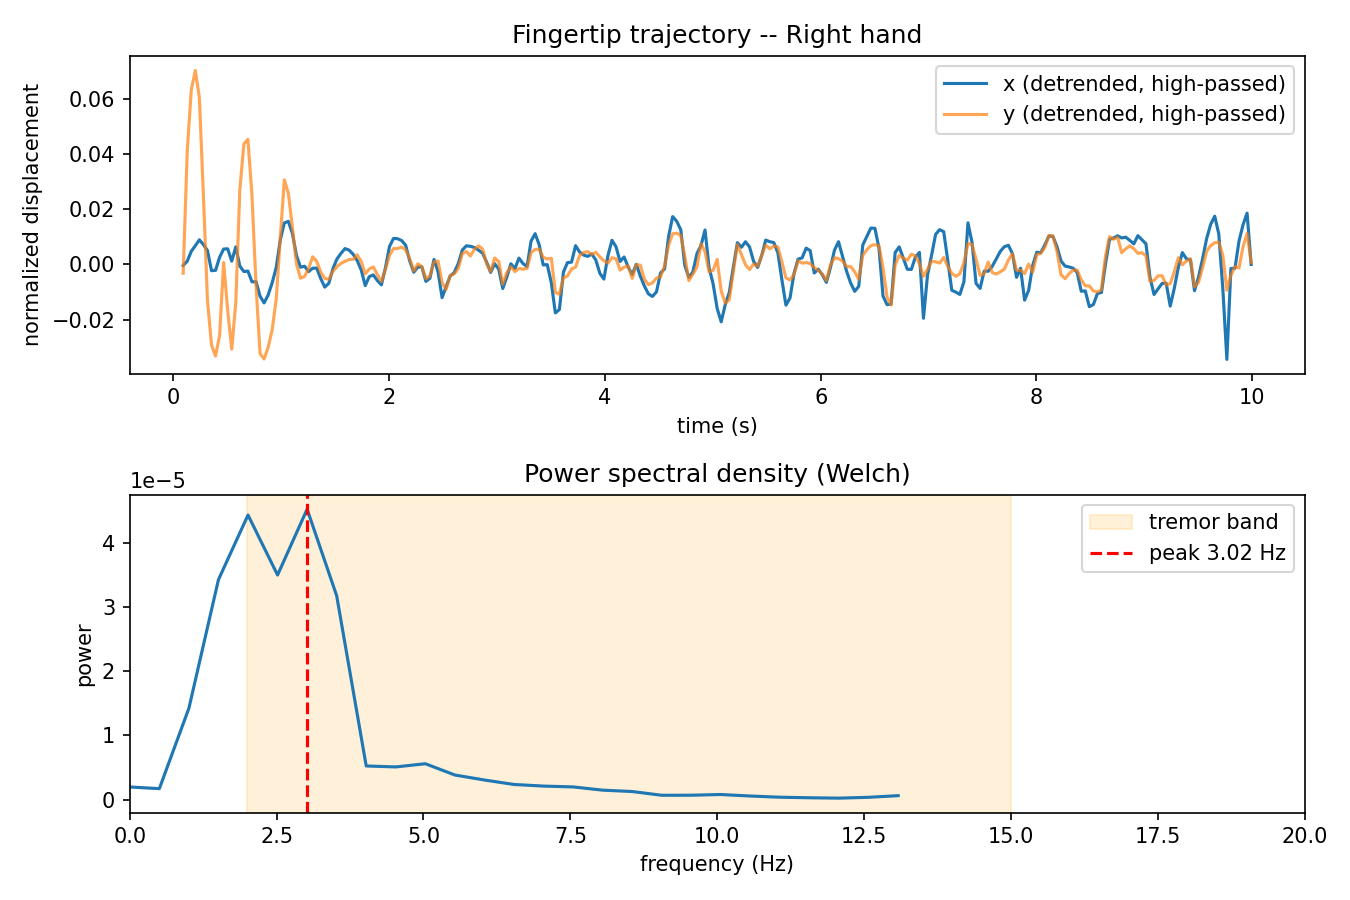
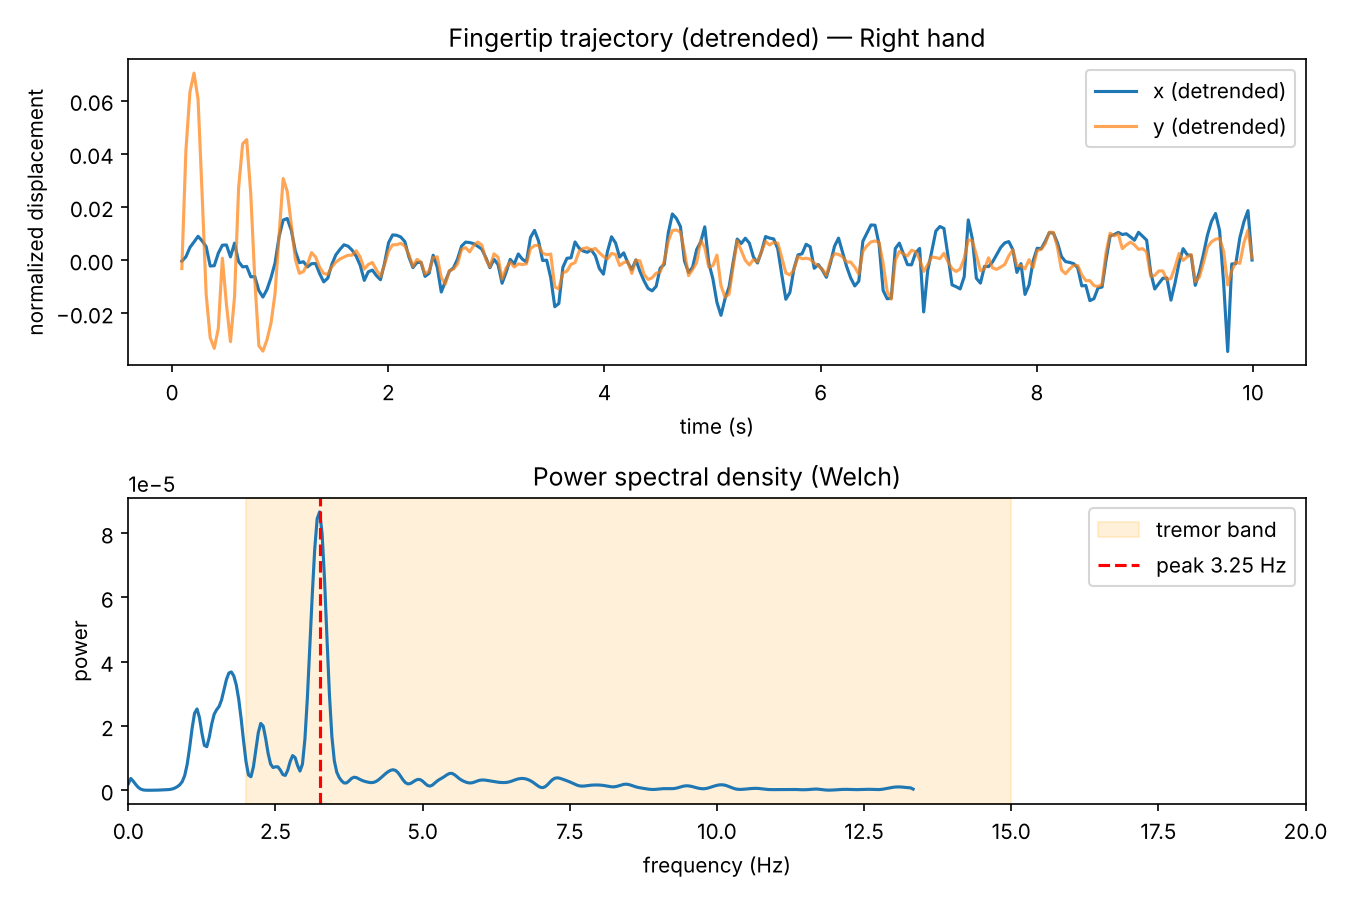
Fix tremor peak detection; correct Nyquist and ROM claims

diff --git a/python/tremor_math.py b/python/tremor_math.py
@@ -13,20 +13,19 @@ def resample_uniform(t, x, y):
     return t_uniform, x_u, y_u, fs
 
 
-def dominant_freq(x_u, y_u, fs, band=(2.0, 15.0), min_prominence_ratio=0.15,
-                   highpass_hz=1.0):
-    """Find a genuine spectral peak inside `band`, not just the highest point in
-    that window. A hand that isn't oscillating produces a power spectrum that
-    monotonically decays from 0 Hz -- naively taking argmax() over a band window
-    would then just report the band's left edge every time, even for a
-    perfectly still hand. scipy.signal.find_peaks requires an actual local
-    maximum (lower power on both sides) with prominence above a fraction of the
-    spectrum's peak power, so flat/monotonic spectra correctly report "no peak."
+def dominant_freq(x_u, y_u, fs, band=(2.0, 15.0), min_prominence_ratio=0.25,
+                  highpass_hz=1.0, window_sec=6.0):
+    """Find a genuine spectral peak inside `band`.
 
-    Slow arm/wrist drift during a "shake" also tends to dominate the spectrum
-    below ~1 Hz and can swamp a real, smaller tremor-band peak -- a Butterworth
-    high-pass filter removes that before Welch's method, so the oscillatory
-    component (not overall hand travel) is what gets compared against the band.
+    Two rules keep this honest:
+    - A long Welch window (`window_sec`). A 2 s window gives 0.5 Hz resolution,
+      too coarse to tell 2.0 Hz from 2.4 Hz.
+    - Prominence is relative to the strongest power *inside the band*. Measuring
+      it against the whole spectrum lets sub-band arm motion (1-2 Hz) hide a
+      real in-band peak. A still hand has no such peak and reports "no peak".
+
+    Peaks are searched on the whole spectrum and then filtered to the band, so
+    a peak sitting exactly on the band edge is not lost.
     """
     x_d = signal.detrend(x_u)
     y_d = signal.detrend(y_u)
@@ -36,16 +35,20 @@ def dominant_freq(x_u, y_u, fs, band=(2.0, 15.0), min_prominence_ratio=0.15,
         x_d = signal.sosfiltfilt(sos, x_d)
         y_d = signal.sosfiltfilt(sos, y_d)
 
-    nperseg = min(len(x_d), int(fs * 2))
-    f, pxx = signal.welch(x_d, fs=fs, nperseg=nperseg)
-    _, pyy = signal.welch(y_d, fs=fs, nperseg=nperseg)
+    nperseg = min(len(x_d), int(fs * window_sec))
+    nfft = 4 * nperseg
+    f, pxx = signal.welch(x_d, fs=fs, nperseg=nperseg, nfft=nfft)
+    _, pyy = signal.welch(y_d, fs=fs, nperseg=nperseg, nfft=nfft)
     power = pxx + pyy
 
-    if power.max() <= 0:
+    upper = min(band[1], 0.9 * fs / 2)  # stay clear of Nyquist (fs / 2)
+    in_band = (f >= band[0]) & (f <= upper)
+    if power.max() <= 0 or not in_band.any():
         return None, None, f, power, x_d, y_d
 
-    peaks, _ = signal.find_peaks(power, prominence=power.max() * min_prominence_ratio)
-    band_peaks = peaks[(f[peaks] >= band[0]) & (f[peaks] <= band[1])]
+    band_max = power[in_band].max()
+    peaks, _ = signal.find_peaks(power, prominence=band_max * min_prominence_ratio)
+    band_peaks = peaks[(f[peaks] >= band[0]) & (f[peaks] <= upper)]
     if len(band_peaks) == 0:
         return None, None, f, power, x_d, y_d
 

diff --git a/python/analyze_rom.py b/python/analyze_rom.py
@@ -2,9 +2,11 @@
 Per-finger joint-angle / range-of-motion (ROM) analysis.
 
 For each finger, computes the PIP joint angle (angle at the middle joint,
-between the MCP->PIP and PIP->DIP vectors) every frame from the 2D landmark
-positions, then reports the range of motion (max - min angle) achieved
-during the recording. This is a webcam replacement for a physical
+between the MCP->PIP and PIP->DIP vectors) every frame from the 3D landmark
+positions, then reports the range of motion (2nd to 98th percentile of the
+angle) achieved during the recording. 2D angles sweep through values a real
+joint cannot reach when the hand rotates, and single-frame tracking glitches
+would otherwise set the max and min. This is a webcam replacement for a physical
 goniometer, standard in rehab ROM tracking.
 
 Validate before trusting it: hold a printed protractor in frame, bend your
@@ -26,7 +28,7 @@ from load_csv import load_full_track
 
 
 def joint_angle_deg(a, b, c):
-    """Angle at point b formed by rays b->a and b->c, in degrees. a,b,c: (N,2) arrays."""
+    """Angle at point b formed by rays b->a and b->c, in degrees. a,b,c: (N,D) arrays."""
     v1 = a - b
     v2 = c - b
     dot = np.sum(v1 * v2, axis=1)
@@ -49,15 +51,16 @@ def main():
 
     fig, ax = plt.subplots(figsize=(9, 5))
     print(f"Hand: {hand_used}")
-    print(f"{'finger':<8} {'min (deg)':>10} {'max (deg)':>10} {'ROM (deg)':>10}")
+    print(f"{'finger':<8} {'p2 (deg)':>10} {'p98 (deg)':>10} {'ROM (deg)':>10}")
 
     for name, (mcp, pip, dip, tip) in LM.FINGERS.items():
-        a = lm[:, mcp, :2]
-        b = lm[:, pip, :2]
-        c = lm[:, dip, :2]
+        a = lm[:, mcp, :3]
+        b = lm[:, pip, :3]
+        c = lm[:, dip, :3]
         angles = joint_angle_deg(a, b, c)
-        rom = angles.max() - angles.min()
-        print(f"{name:<8} {angles.min():>10.1f} {angles.max():>10.1f} {rom:>10.1f}")
+        low, high = np.percentile(angles, [2, 98])
+        rom = high - low
+        print(f"{name:<8} {low:>10.1f} {high:>10.1f} {rom:>10.1f}")
         ax.plot(t, angles, label=f"{name} (ROM {rom:.0f}°)")
 
     ax.set_xlabel("time (s)")

diff --git a/tests/test_tremor_math.py b/tests/test_tremor_math.py
@@ -1,0 +1,29 @@
+import sys
+from pathlib import Path
+
+import numpy as np
+import pytest
+
+sys.path.insert(0, str(Path(__file__).resolve().parents[1] / "python"))
+from tremor_math import dominant_freq  # noqa: E402
+
+FS = 21.0
+
+
+def _trace(hz, seconds=14, drift_amp=0.02, seed=0):
+    rng = np.random.default_rng(seed)
+    t = np.arange(0, seconds, 1 / FS)
+    x = 0.01 * np.sin(2 * np.pi * hz * t) if hz else np.zeros_like(t)
+    return x + drift_amp * np.sin(2 * np.pi * 0.3 * t) + rng.normal(0, 0.001, len(t))
+
+
+@pytest.mark.parametrize("hz", [2, 3, 5, 8, 9])
+def test_recovers_frequency_below_nyquist(hz):
+    x = _trace(hz)
+    assert dominant_freq(x, 0.5 * x, FS)[0] == pytest.approx(hz, abs=0.1)
+
+
+def test_arm_motion_below_band_does_not_hide_peak():
+    t = np.arange(0, 14, 1 / FS)
+    x = 0.05 * np.sin(2 * np.pi * 1.5 * t) + 0.01 * np.sin(2 * np.pi * 5 * t)
+    assert dominant_freq(x, x, FS)[0] == pytest.approx(5, abs=0.1)

diff --git a/README.md b/README.md
@@ -65,7 +65,7 @@ the landmark CSV and generates the PSD plot below from that same take:
   <img src="docs/demo_tremor_Right.png" width="420">
 </p>
 
-**Result: Left 3.52 Hz, Right 3.02 Hz** — clean sustained in-band peaks, live, not post-hoc.
+**Result: Left 5.08 Hz, Right 3.25 Hz** (recomputed offline with the current detector, at the ~27 fps of this take).
 
 ## What we did to test it
 
@@ -79,21 +79,26 @@ the landmark CSV and generates the PSD plot below from that same take:
 
 ## Results
 
+One recording per condition, index fingertip, peak detector in `tremor_math.py`
+(6 s Welch window, 0.17 Hz resolution):
+
 | Target | Detected | Verdict |
 |---|---|---|
 | still baseline | no peak | correct |
-| 2 Hz metronome | 2.04 Hz | matches (~2% error) |
-| 3 Hz metronome | 5.10 Hz | mismatch (see below) |
-| 5 Hz metronome | no peak | not detected — webcam fps ceiling (~20fps, Nyquist limits reliable detection above ~5-6 Hz) |
+| 2 Hz metronome | 2.05 Hz | matches |
+| 3 Hz metronome | 4.97 Hz | ambiguous: a second peak at 3.01 Hz has the same power |
+| 5 Hz metronome | 4.98 Hz | matches |
 
-Inspection of the 3 Hz recording's trajectory plot showed the actual hand
-motion was tighter and faster than the intended pace — a genuine spectral
-peak near 5 Hz, not a harmonic artifact or a tracking glitch (the same
-signal was visible directly in the raw x/y trajectory, not just the
-spectrum). Most likely explanation: the participant drifted above the
-metronome's pace rather than the pipeline mis-detecting a slower motion.
-This wasn't independently confirmed against a second sensor, so it remains
-a plausible-but-unverified explanation rather than a proven one.
+The 3 Hz recording has two near-equal peaks, so it needs repeating before it can
+be called either way. Sampling is not the limit here: at ~21 fps the Nyquist
+frequency is ~10 Hz, and synthetic sine waves at 2-9 Hz, sampled on this
+recording's real frame timestamps, were recovered within 0.05 Hz. What limits
+detection is how much of the hand's motion falls in the band compared with
+slower arm movement.
+
+An earlier version used a 2 s window and measured peak prominence against the
+whole spectrum, so 1-2 Hz arm motion hid the 5 Hz peak. That was misread at the
+time as a frame-rate limit, and is fixed.
 
 <table>
 <tr>
@@ -116,7 +121,13 @@ Tap / decrement / ROM also run cleanly on real recordings:
 <img src="docs/images/rom.png" width="320">
 </p>
 
-10 taps @ 0.87/s, rhythm CV 0.42 · amplitude trend +1.9% (no decrement) · 176-178° ROM across fingers.
+10 taps @ 0.87/s, rhythm CV 0.42 · amplitude trend +1.9% (no decrement).
+
+ROM uses MediaPipe's 3D landmarks and the 2nd-98th percentile of the PIP angle. On this
+tapping recording it reads 106-142° across fingers, close to or above the ~100-110° a PIP
+joint moves. MediaPipe's depth is an estimate and this take was not a ROM task, so treat it
+as unvalidated until checked against a protractor. An earlier 2D version reported 176-178°,
+which is physically impossible and came from the hand rotating in view.
 
 ## Setup
 
@@ -153,9 +164,11 @@ One row per hand per frame: `frame, t_sec, hand, handedness_score, lm0_x, lm0_y,
 
 - Validated only on a healthy participant (self-recorded), not a clinical population.
 - Accuracy depends on webcam frame rate and lighting; tested at ~20-21fps.
-- Reliable tremor-frequency estimation is limited to roughly below 5-6 Hz at
-  that frame rate (Nyquist limit) — below the upper end of some clinical
-  tremor ranges (e.g. Parkinsonian rest tremor, essential tremor).
+- At ~21 fps the Nyquist frequency is ~10.5 Hz, so tremor above about 9 Hz cannot
+  be measured. Timing jitter and motion blur near that limit are untested on
+  real tremor.
+- One recording per frequency: no repeatability data yet.
+- ROM is not yet validated against a protractor or goniometer (see Results).
 - Not yet cross-validated against a second sensor (IMU, optical motion
   capture) or a clinician-rated assessment — metronome/protractor checks are
   a methods sanity check, not clinical validation.
@@ -164,8 +177,8 @@ One row per hand per frame: `frame, t_sec, hand, handedness_score, lm0_x, lm0_y,
 
 - Compare against a wearable IMU or optical motion capture on the same task,
   for an independent accuracy check beyond a metronome/protractor.
-- Higher-frame-rate capture (phone camera, 60-120fps) to test whether the
-  ~5-6 Hz ceiling is a webcam artifact rather than a fundamental limit.
+- Higher-frame-rate capture (phone camera, 60-120fps) to reduce motion blur and
+  extend the measurable band.
 - Inter-finger independence during tapping (spasticity/coordination marker).
 - Grip aperture over time (reach-to-grasp kinematics).
 - Port the web spiral test into Python for offline scoring.
